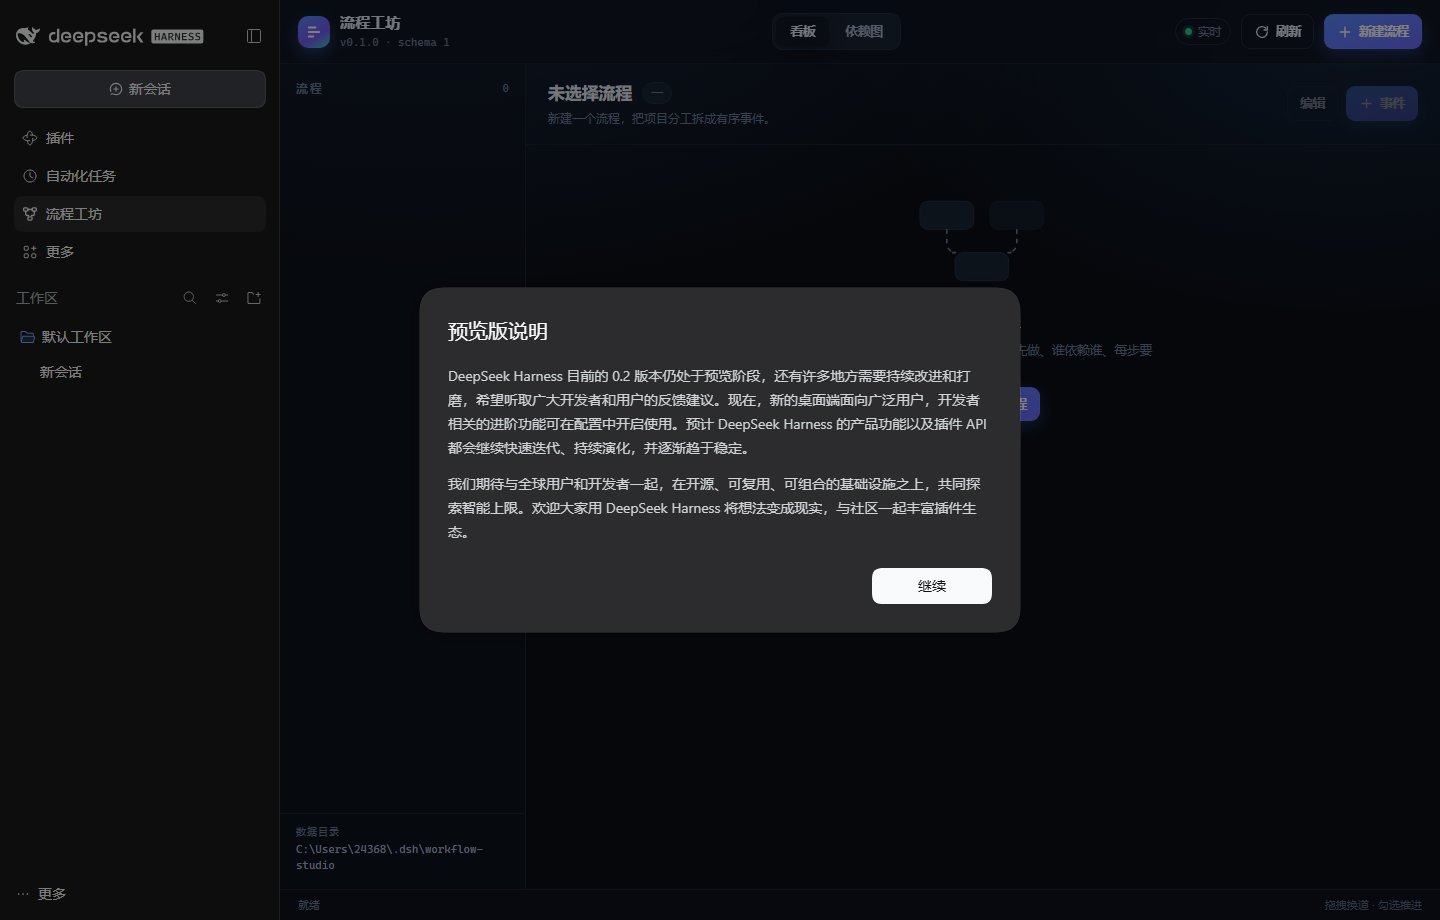
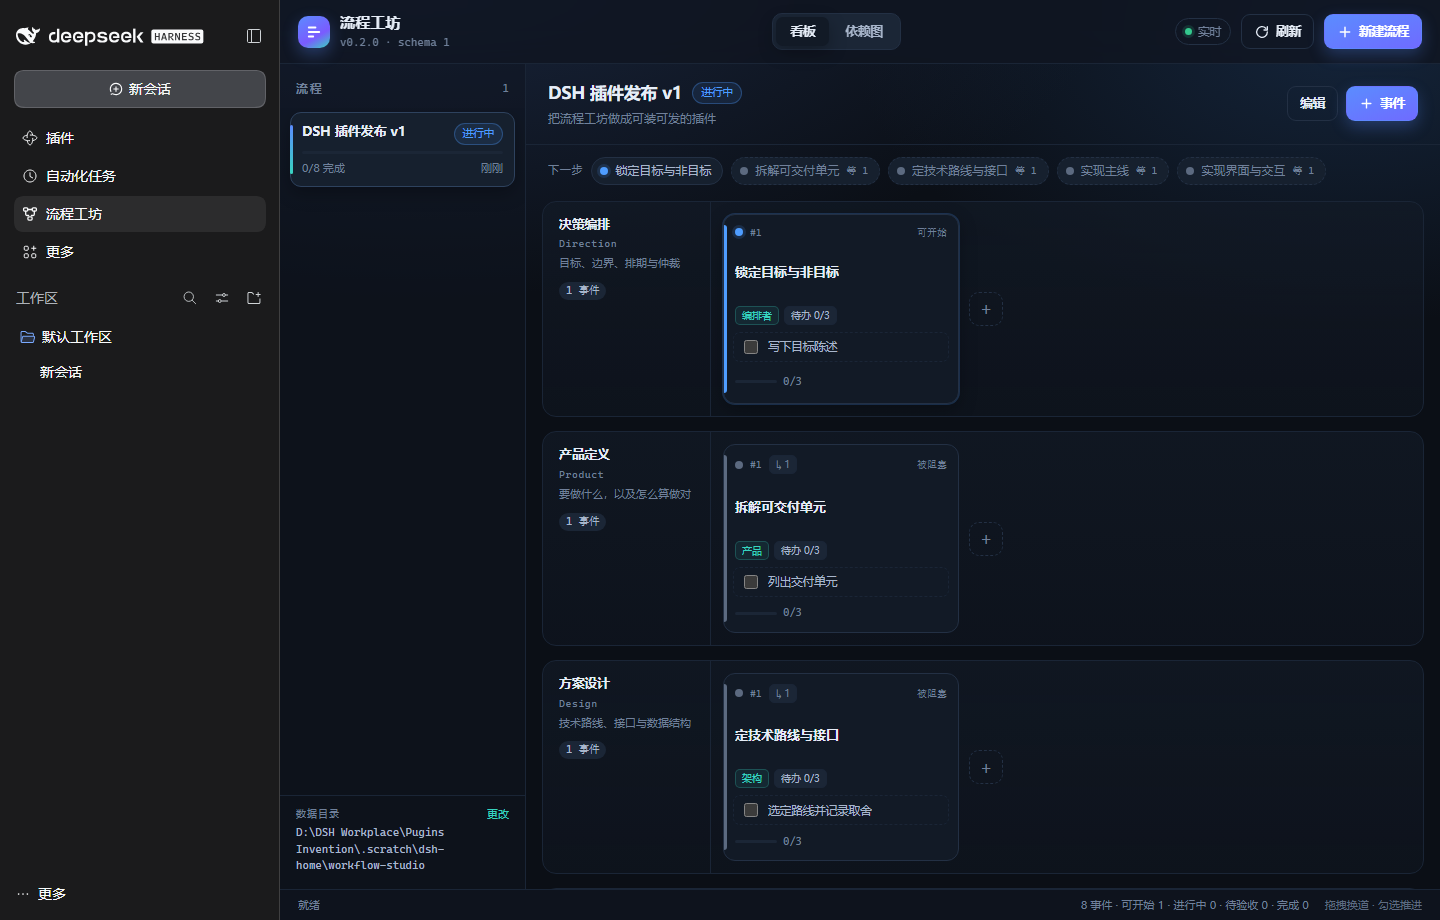
docs: 集成截图换成带数据目录入口的面板
- dev/dsh-app-check.js：自动关掉首启弹窗、支持 --seed 造演示看板后截图

- README 开发段补 --seed 用法

diff --git a/dev/dsh-app-check.js b/dev/dsh-app-check.js
@@ -28,6 +28,7 @@ const urlFlag = args.indexOf('--url')
 const url = urlFlag >= 0 ? args[urlFlag + 1] : null
 const outFlag = args.indexOf('--out')
 const outPath = outFlag >= 0 ? args[outFlag + 1] : '.scratch/dsh-app.png'
+const seed = args.includes('--seed')
 if (!url) {
   console.error('缺少 --url（用 dsh web 打印的带 token 的地址）')
   process.exit(2)
@@ -118,6 +119,20 @@ try {
   await send('Page.navigate', { url })
   await sleep(4500)
 
+  // 首次启动会有「预览版说明」与「开始使用」两个弹窗，挡住一切点击，先关掉。
+  await evaluate(`(() => {
+    const button = [...document.querySelectorAll('button')].find((element) => element.textContent?.trim() === '继续')
+    if (button) { button.click(); return true }
+    return false
+  })()`)
+  await sleep(600)
+  await evaluate(`(() => {
+    const closer = document.querySelector('[aria-label="关闭"], [aria-label="Close"]')
+    if (closer) { closer.click(); return true }
+    return false
+  })()`)
+  await sleep(400)
+
   const boot = await evaluate(`(() => {
     const body = document.body?.innerText ?? ''
     return {
@@ -168,6 +183,32 @@ try {
     }
   })()`)
 
+  const seeded = seed
+    ? await evaluate(`(async () => {
+        const frame = document.querySelector('iframe[src*="workflow-studio"]')
+        if (!frame) return { ok: false }
+        const win = frame.contentWindow
+        const list = await win.fetch('/workflow-studio/api/workflows').then((response) => response.json())
+        if (list.workflows?.length) return { ok: true, created: false, count: list.workflows.length }
+        const response = await win.fetch('/workflow-studio/api/workflows', {
+          method: 'POST',
+          headers: { 'Content-Type': 'application/json' },
+          body: JSON.stringify({ name: 'DSH 插件发布 v1', goal: '把流程工坊做成可装可发的插件', template: 'project' }),
+        })
+        const body = await response.json()
+        return { ok: true, created: response.status === 201, status: response.status, id: body.workflow?.id, events: body.workflow?.events?.length }
+      })()`)
+    : null
+  if (seed) {
+    await sleep(800)
+    await evaluate(`(() => {
+      const frame = document.querySelector('iframe[src*="workflow-studio"]')
+      frame?.contentWindow?.location.reload()
+      return true
+    })()`)
+    await sleep(2200)
+  }
+
   const config = await evaluate(`(async () => {
     const frame = document.querySelector('iframe[src*="workflow-studio"]')
     if (!frame) return { ok: false, reason: 'no iframe' }
@@ -206,7 +247,7 @@ try {
   await fs.mkdir(path.dirname(path.resolve(outPath)), { recursive: true })
   await fs.writeFile(outPath, Buffer.from(shot.data, 'base64'))
 
-  console.log(JSON.stringify({ boot, clicked, panel, config, badResponses, consoleErrors, screenshot: path.resolve(outPath) }, null, 2))
+  console.log(JSON.stringify({ boot, clicked, panel, seeded, config, badResponses, consoleErrors, screenshot: path.resolve(outPath) }, null, 2))
 } finally {
   try {
     socket?.close()

diff --git a/README.md b/README.md
@@ -143,6 +143,7 @@ node dev/harness.js --unlocked --data-dir .dev-data   # 解锁模式，可在页
 node dev/dom-check.js <url> --out shot.png # 无头 Chrome 跑一遍页面并截图（含交互断言）
 node dev/dom-check.js <url> --flow config --target D:/tmp/x   # 走一遍「换数据目录」
 node dev/dsh-app-check.js --url "<dsh web 打印的带 token 地址>"   # 在真实 DSH 实例里验证侧栏与面板
+node dev/dsh-app-check.js --url "<…>" --seed                     # 顺手造一张演示看板再截图
 node --test tests/store.test.js tests/api.test.js tests/config.test.js   # 37 个用例
 ```
 
